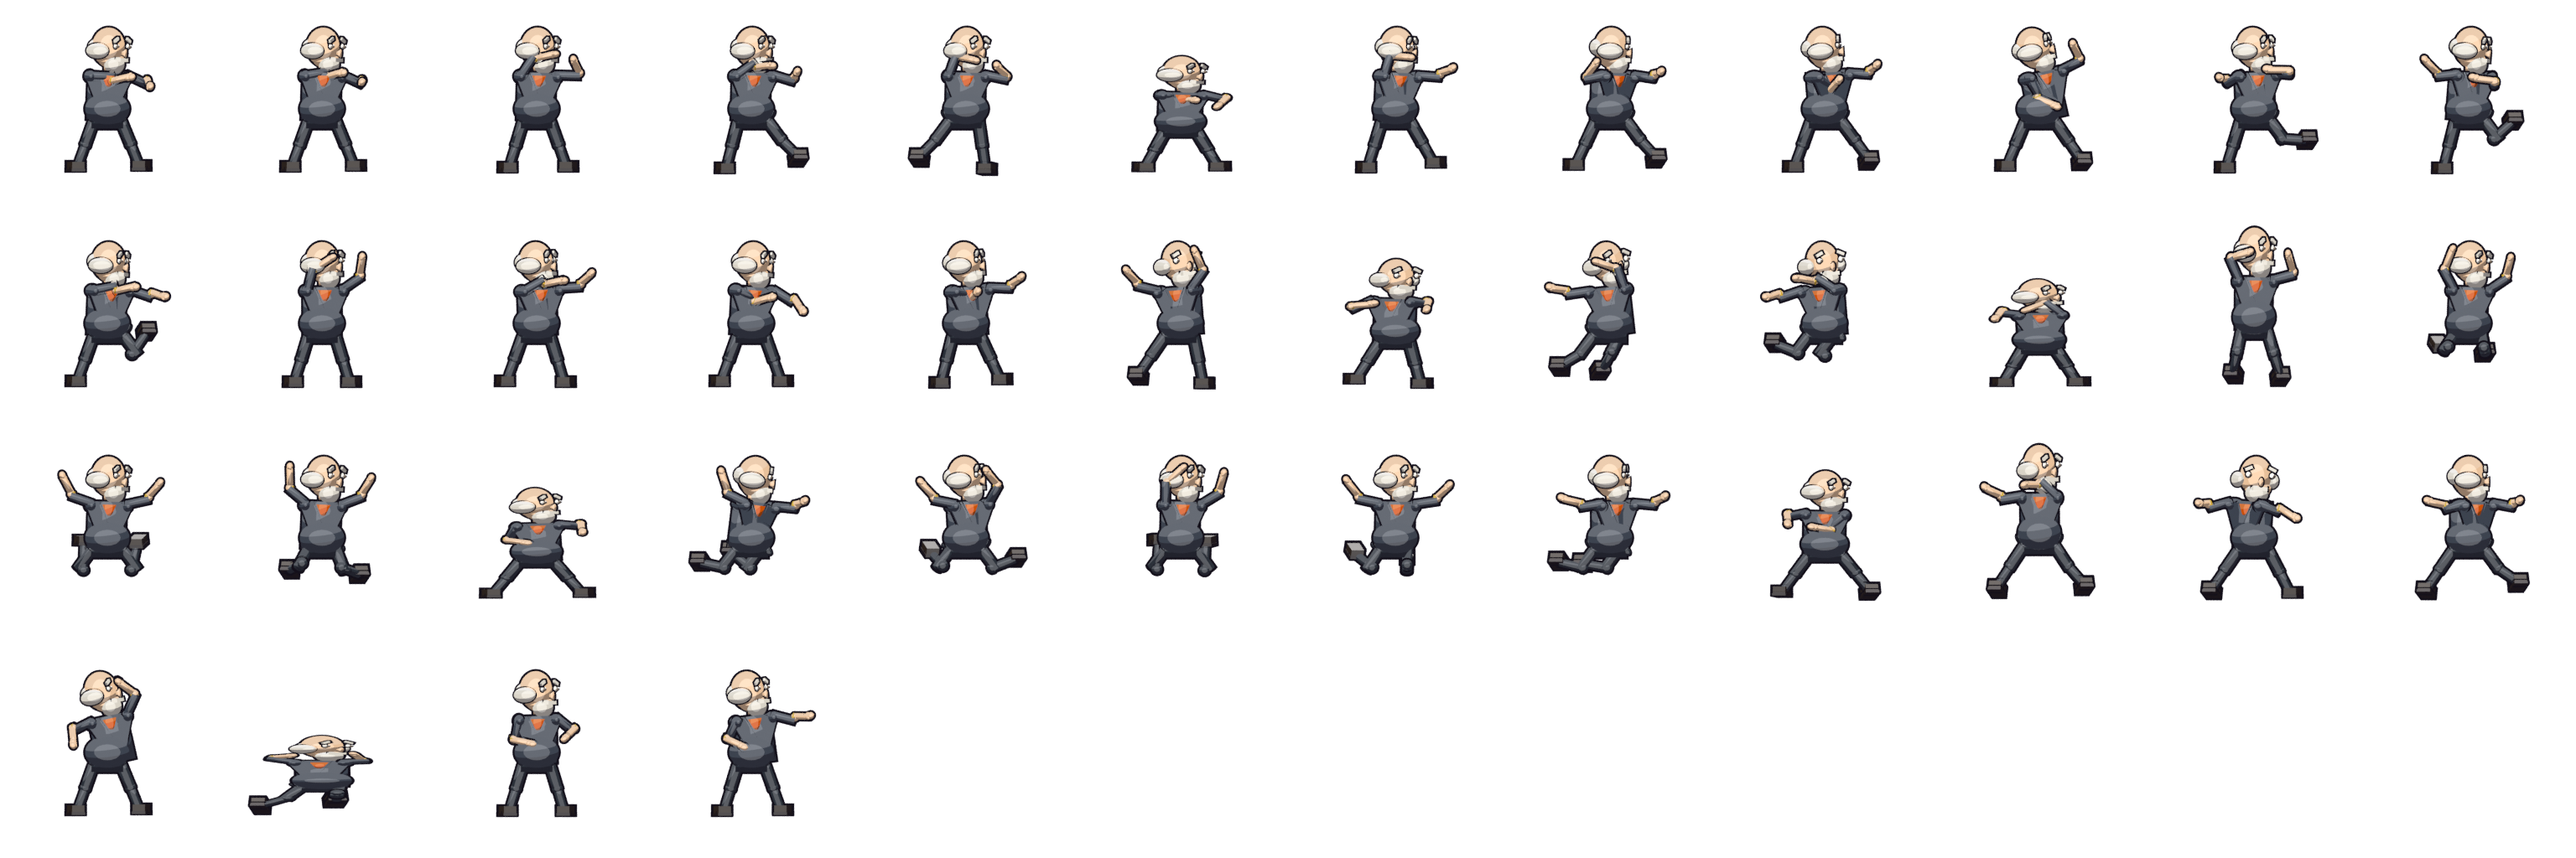
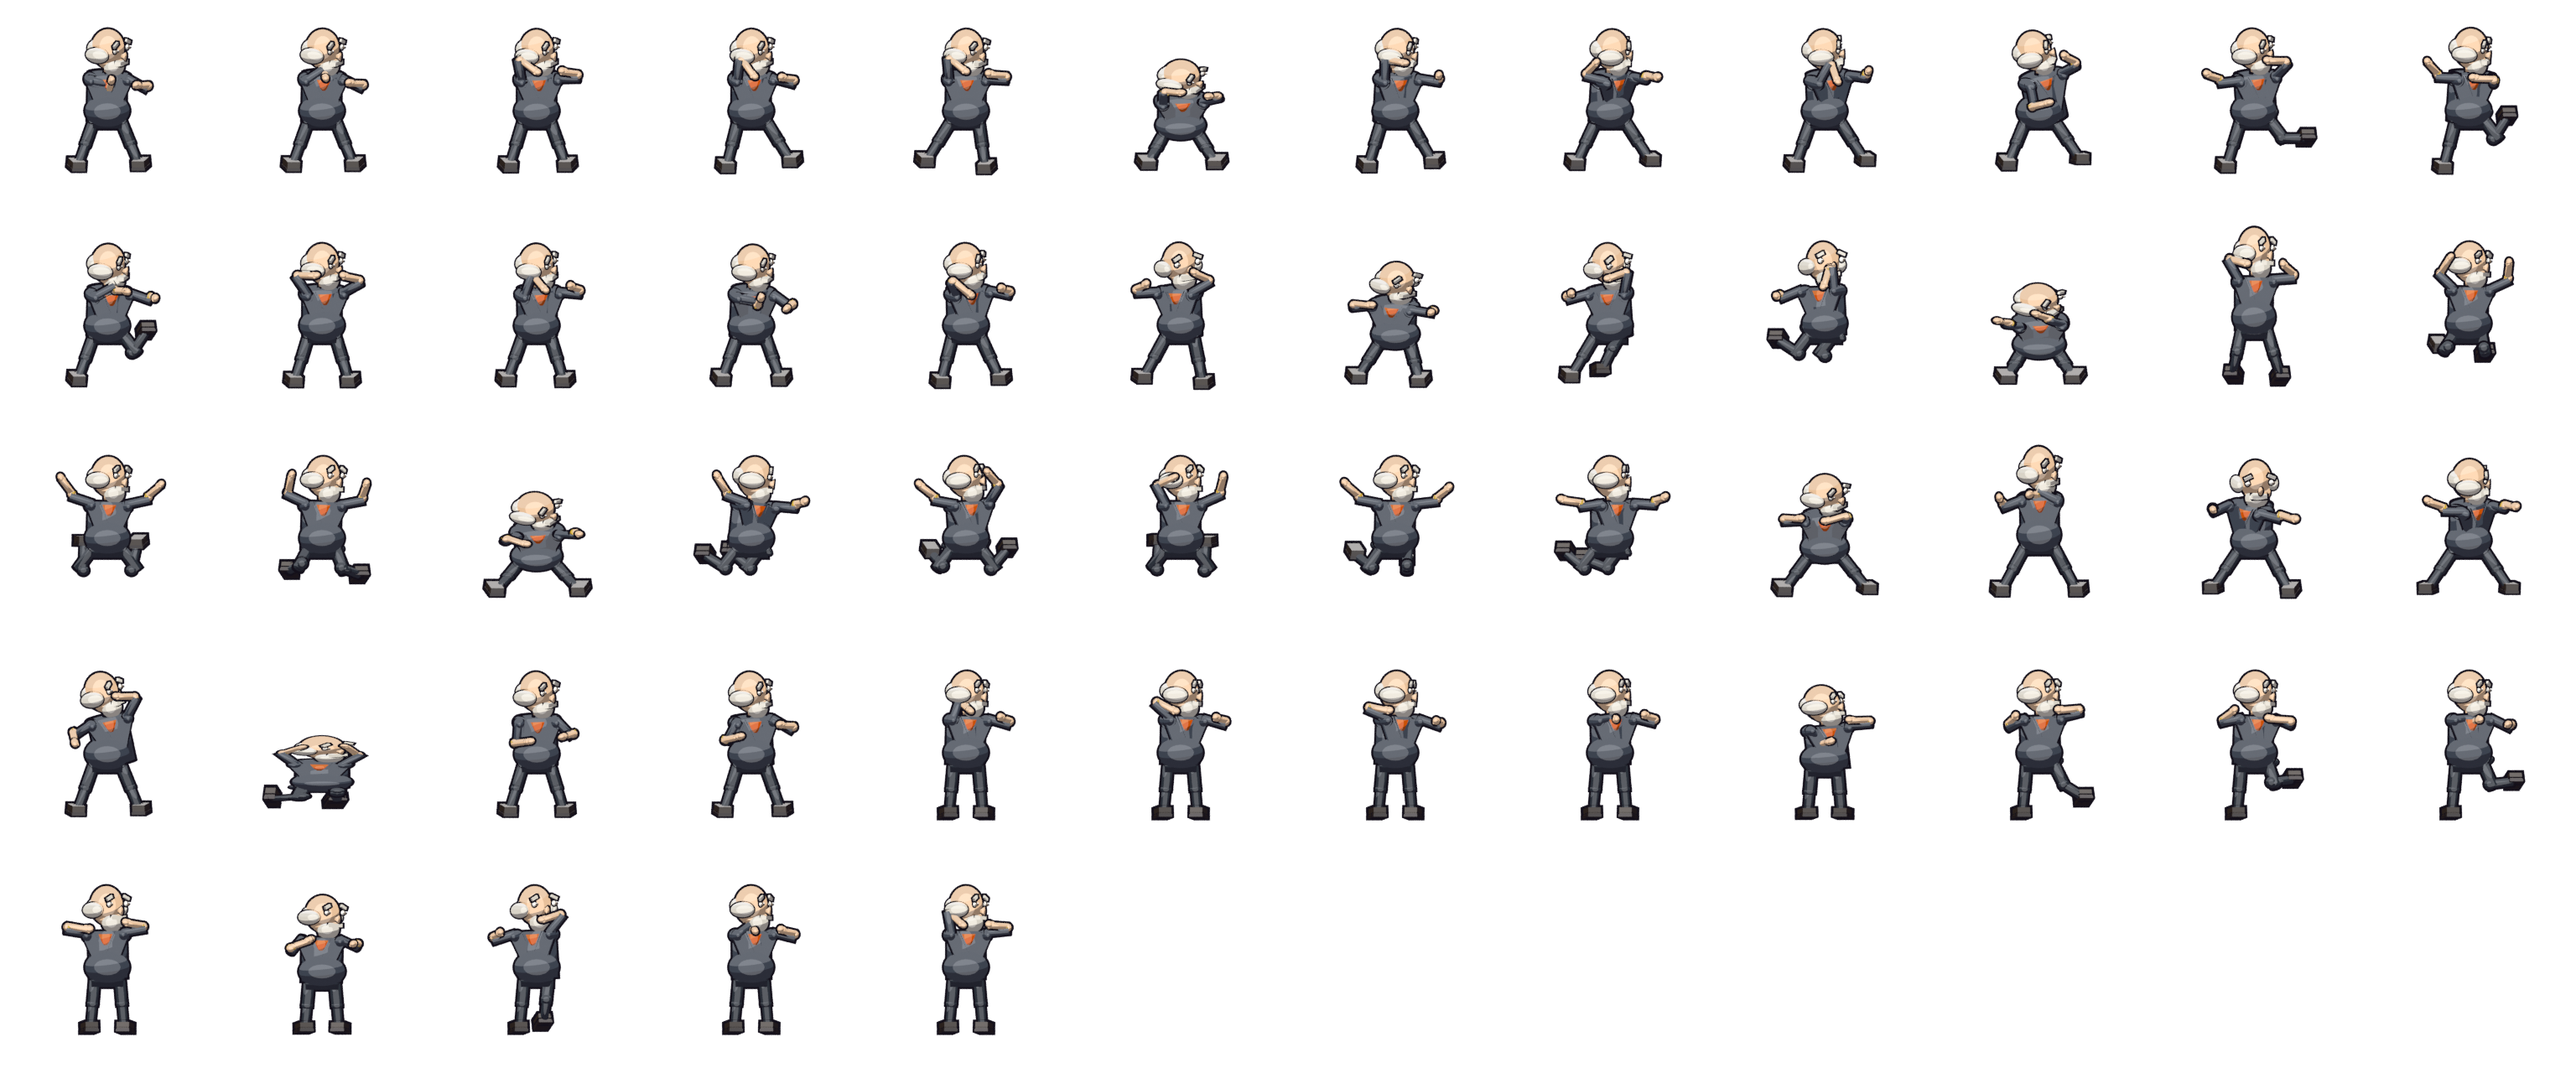
Deploy 60e8ec4-20260826T104843Z
Built by scripts/build/buildPublic.mjs. Do not edit this repo by hand.

diff --git a/play/2d-fighter-ex/src/fightScript.js b/play/2d-fighter-ex/src/fightScript.js
@@ -205,26 +205,63 @@ class Fight {
 
 
 
+
+
+
+
+
+
+
+
 const ATTACKS = {
-  jab: { frames: [['guard', 1], ['jab', 2], ['guard', 2]], hitAt: 2, reach: 46, power: 0.5 },
-  cross: { frames: [['guard', 2], ['cross', 3], ['step-in', 2]], hitAt: 3, reach: 54, power: 1 },
-  hook: { frames: [['guard', 2], ['hook', 3], ['guard', 2]], hitAt: 3, reach: 44, power: 0.9 },
-  uppercut: { frames: [['crouch', 2], ['uppercut', 3], ['guard', 2]], hitAt: 3, reach: 38, power: 1 },
-  'kick-low': { frames: [['guard', 2], ['kick-low', 3], ['guard', 2]], hitAt: 3, reach: 58, power: 0.8 },
-  'kick-high': { frames: [['guard', 2], ['kick-high', 4], ['guard', 3]], hitAt: 4, reach: 62, power: 1 },
-  knee: { frames: [['step-in', 2], ['knee', 3], ['guard', 2]], hitAt: 3, reach: 32, power: 0.9 },
+  jab: {
+    frames: [['guard', 1], ['jab-mid', 1], ['jab', 2], ['jab-mid', 1], ['guard', 1]],
+    hitAt: 2, reach: 46, power: 0.5,
+  },
+  cross: {
+    frames: [['guard', 1], ['cross-mid', 1], ['cross', 2], ['cross-out', 2],
+      ['step-in', 1], ['guard', 1]],
+    hitAt: 2, reach: 54, power: 1,
+  },
+  hook: {
+    frames: [['guard', 1], ['hook-mid', 1], ['hook', 2], ['hook-mid', 1], ['guard', 1]],
+    hitAt: 2, reach: 44, power: 0.9,
+  },
+  uppercut: {
+    frames: [['crouch', 1], ['upper-mid', 1], ['uppercut', 2], ['upper-mid', 1],
+      ['guard', 1]],
+    hitAt: 2, reach: 38, power: 1,
+  },
+  'kick-low': {
+    frames: [['guard', 1], ['klow-mid', 1], ['kick-low', 2], ['klow-mid', 1],
+      ['guard', 1]],
+    hitAt: 2, reach: 58, power: 0.8,
+  },
+  'kick-high': {
+    frames: [['guard', 1], ['khigh-mid', 1], ['kick-high', 3], ['khigh-mid', 1],
+      ['guard', 1]],
+    hitAt: 2, reach: 62, power: 1,
+  },
+  knee: {
+    frames: [['step-in', 1], ['knee-mid', 1], ['knee', 2], ['knee-mid', 1],
+      ['guard', 1]],
+    hitAt: 2, reach: 32, power: 0.9,
+  },
 };
+
+
+
 
 const DEFENCES = {
   
   
-  jab: 'parry',
-  cross: 'block-mid',
-  hook: 'block-high',
-  uppercut: 'step-back',
-  'kick-low': 'block-low',
-  'kick-high': 'block-high',
-  knee: 'block-low',
+  jab: ['guard', 'block-mid-in', 'parry', 'parry', 'block-mid-in'],
+  cross: ['guard', 'block-mid-in', 'block-mid', 'block-mid', 'block-mid-in'],
+  hook: ['guard', 'block-high-in', 'block-high', 'block-high', 'block-high-in'],
+  uppercut: ['guard', 'block-mid-in', 'step-back', 'step-back', 'guard'],
+  'kick-low': ['guard', 'block-mid-in', 'block-low', 'block-low', 'block-mid-in'],
+  'kick-high': ['guard', 'block-high-in', 'block-high', 'block-high', 'block-high-in'],
+  knee: ['guard', 'block-mid-in', 'block-low', 'block-low', 'block-mid-in'],
 };
 
 
@@ -245,29 +282,52 @@ function expand(frames) {
 function exchange({ attack, attX, defX, attFace, defFace, connects, slow = 1, react }) {
   const spec = ATTACKS[attack];
   const poses = expand(spec.frames);
-  const defPose = DEFENCES[attack];
+  const defSeq = DEFENCES[attack];
   const out = [];
   const hitTick = spec.hitAt * slow;
+
+  
+  
+  
+  const heavy = spec.power >= 0.9;
+  const reactSeq = react ? [react, react, react, react] : (heavy
+    ? ['hit-head-mid', 'hit-head', 'hit-head', 'stagger-mid', 'stagger', 'stagger']
+    : ['hit-body-mid', 'hit-body', 'hit-body', 'stagger-mid', 'stagger', 'stagger']);
 
   for (let i = 0; i < poses.length * slow; i += 1) {
     const p = poses[Math.floor(i / slow)];
     
-    const committing = i >= (spec.frames[0][1] * slow) && i < hitTick + 3 * slow;
     
     
     
-    const lean = committing ? spec.reach * 0.52 : 0;
+    
+    
+    
+    
+    
+    
+    const windEnd = spec.frames[0][1] * slow;
+    const holdEnd = hitTick + 3 * slow;
+    let ramp = 0;
+    if (i >= windEnd && i < holdEnd) {
+      ramp = Math.min(1, (i - windEnd + 1) / Math.max(1, hitTick - windEnd + 1));
+    } else if (i >= holdEnd) {
+      ramp = Math.max(0, 1 - (i - holdEnd + 1) / (3 * slow));
+    }
+    
+    
+    
+    const lean = spec.reach * 0.52 * easeOut(ramp);
     const ax = attX + attFace * lean;
 
-    let dPose = defPose;
+    let dPose = defSeq[Math.min(defSeq.length - 1, Math.floor(i / slow))];
     let dx = defX;
     if (connects && i >= hitTick) {
       
       
-      const since = i - hitTick;
-      dPose = react || (spec.power >= 0.9 ? 'hit-head' : 'hit-body');
-      if (since > 3 * slow) dPose = 'stagger';
-      dx = defX + defFace * -Math.min(spec.power * 16, since * 2.2);
+      const since = Math.floor((i - hitTick) / slow);
+      dPose = reactSeq[Math.min(reactSeq.length - 1, since)];
+      dx = defX + defFace * -Math.min(spec.power * 16, (i - hitTick) * 2.2);
     }
     out.push({
       a: st(p, ax, 0, attFace),

diff --git a/play/2d-fighter-ex/src/moveManifest.js b/play/2d-fighter-ex/src/moveManifest.js
@@ -7,7 +7,7 @@ export const FEET_ROW = 205.00;
 export const PX_PER_UNIT = 98.462;
 export const ARCHETYPES = {"light": {"name": "old", "label": "old fat man", "heightMul": 1.02}, "dark": {"name": "kid", "label": "short kid", "heightMul": 0.78}};
 
-export const MOVE_INDEX = {"idle": [0, 0], "idle-breathe": [256, 0], "guard": [512, 0], "step-in": [768, 0], "step-back": [1024, 0], "crouch": [1280, 0], "jab": [1536, 0], "cross": [1792, 0], "hook": [2048, 0], "uppercut": [2304, 0], "kick-low": [2560, 0], "kick-high": [2816, 0], "knee": [0, 256], "block-high": [256, 256], "block-mid": [512, 256], "block-low": [768, 256], "parry": [1024, 256], "hit-head": [1280, 256], "hit-body": [1536, 256], "stagger": [1792, 256], "knockdown": [2048, 256], "jump-load": [2304, 256], "jump-launch": [2560, 256], "jump-rise": [2816, 256], "jump-apex": [0, 512], "jump-fall": [256, 512], "land": [512, 512], "air-punch": [768, 512], "air-kick": [1024, 512], "air-guard": [1280, 512], "hover": [1536, 512], "fly-dash": [1792, 512], "charge": [2048, 512], "charge-max": [2304, 512], "finish-wind": [2560, 512], "finish-strike": [2816, 512], "victory": [0, 768], "defeated": [256, 768], "talk": [512, 768], "talk-point": [768, 768]};
+export const MOVE_INDEX = {"idle": [0, 0], "idle-breathe": [256, 0], "guard": [512, 0], "step-in": [768, 0], "step-back": [1024, 0], "crouch": [1280, 0], "jab": [1536, 0], "cross": [1792, 0], "hook": [2048, 0], "uppercut": [2304, 0], "kick-low": [2560, 0], "kick-high": [2816, 0], "knee": [0, 256], "block-high": [256, 256], "block-mid": [512, 256], "block-low": [768, 256], "parry": [1024, 256], "hit-head": [1280, 256], "hit-body": [1536, 256], "stagger": [1792, 256], "knockdown": [2048, 256], "jump-load": [2304, 256], "jump-launch": [2560, 256], "jump-rise": [2816, 256], "jump-apex": [0, 512], "jump-fall": [256, 512], "land": [512, 512], "air-punch": [768, 512], "air-kick": [1024, 512], "air-guard": [1280, 512], "hover": [1536, 512], "fly-dash": [1792, 512], "charge": [2048, 512], "charge-max": [2304, 512], "finish-wind": [2560, 512], "finish-strike": [2816, 512], "victory": [0, 768], "defeated": [256, 768], "talk": [512, 768], "talk-point": [768, 768], "jab-mid": [1024, 768], "cross-mid": [1280, 768], "cross-out": [1536, 768], "hook-mid": [1792, 768], "upper-mid": [2048, 768], "klow-mid": [2304, 768], "khigh-mid": [2560, 768], "knee-mid": [2816, 768], "hit-head-mid": [0, 1024], "hit-body-mid": [256, 1024], "stagger-mid": [512, 1024], "block-mid-in": [768, 1024], "block-high-in": [1024, 1024]};
 
 
 export const MOVE_ROT = {"fly-dash": -34};

diff --git a/play/2d-fighter-ex/src/render.js b/play/2d-fighter-ex/src/render.js
@@ -245,20 +245,34 @@ export function renderFrame(ctx, stage, pose, mood = 'none', { onLayer, season =
   
   layer('fx');
   if (pose.hit && on('impact')) {
+    ctx.save();
+    ctx.globalAlpha = (1 - pose.hit.age) ** 1.6;
     drawEffect(ctx, pose);
+    ctx.restore();
+    
+    
+    
+    
+    
+    
     
     
     
     
     const mid = [pose.hit.x, (pose.a ? pose.a.top : height / 2) + 34];
-    drawClashExtras(ctx, mid[0], mid[1], Math.min(1.6, pose.hit.power || 1), timeMs / 400);
+    const decay = (1 - pose.hit.age) ** 1.6;
+    ctx.save();
+    ctx.globalAlpha = decay;
+    drawClashExtras(ctx, mid[0], mid[1],
+      Math.min(1.6, (pose.hit.power || 1) * (0.5 + 0.5 * decay)), timeMs / 400);
+    ctx.restore();
   }
 
   
   
   
   layer('word');
-  if (on('words') && (pose.hit || (charge && charge.t > 0.25))) {
+  if (on('words') && (pose.word || (charge && charge.t > 0.25))) {
     
     
     
@@ -267,9 +281,24 @@ export function renderFrame(ctx, stage, pose, mood = 'none', { onLayer, season =
     if (pair.length) {
       const mx = pair.reduce((t, p) => t + p.cx, 0) / pair.length;
       const top = Math.min(...pair.map((p) => p.top));
-      if (pose.hit) {
-        drawWord(ctx, WORDS.impact, mx + 26, top - 14, 24,
+      if (pose.word) {
+        
+        
+        
+        
+        
+        
+        
+        
+        const a = pose.word.age;
+        const pop = a < 0.2 ? 0.6 + 0.4 * (a / 0.2) : 1;
+        const fade = a > 0.8 ? (1 - a) / 0.2 : 1;
+        ctx.save();
+        ctx.globalAlpha = fade;
+        drawWord(ctx, WORDS.impact, pose.word.x + 20, top - 12,
+          24 * pop * (pose.word.big ? 1.5 : 1),
           { fill: FX.wordFill, line: FX.wordInk, tilt: -0.16 });
+        ctx.restore();
       } else {
         drawWord(ctx, WORDS.charge, mx - 46, top - 20, 17,
           { fill: FX.wordFill, line: FX.wordInk, tilt: -0.08 });

diff --git a/play/2d-fighter-ex/src/fightPlayback.js b/play/2d-fighter-ex/src/fightPlayback.js
@@ -114,6 +114,79 @@ export function trailAt(ticks, index, side, rate) {
 
 
 
+
+
+
+
+
+
+
+
+const HIT_HOLD = 10;        
+const WORD_HOLD = 16;       
+const WORD_GAP = 45;        
+const WORD_POWER = 0.9;     
+
+let wordTrack = null;
+function words() {
+  if (wordTrack) return wordTrack;
+  const { ticks } = fight();
+  const out = [];
+  let last = -WORD_GAP;
+  for (let i = 0; i < ticks.length; i += 1) {
+    const h = ticks[i].hit;
+    if (!h) continue;
+    if ((h.power || 0) < WORD_POWER && !h.big) continue;
+    
+    
+    
+    if (i - last < (h.big ? WORD_HOLD : WORD_GAP)) continue;
+    last = i;
+    out.push({ at: i, x: h.x, power: h.power || 1, big: !!h.big });
+  }
+  wordTrack = out;
+  return out;
+}
+
+
+function impactAt(index) {
+  const { ticks } = fight();
+  for (let k = 0; k < HIT_HOLD; k += 1) {
+    const at = index - k;
+    if (at < 0) break;
+    const h = ticks[at].hit;
+    if (h) return { ...h, age: k / HIT_HOLD, fresh: k === 0 };
+  }
+  return null;
+}
+
+
+function wordAt(index) {
+  for (const w of words()) {
+    if (index >= w.at && index - w.at < WORD_HOLD) {
+      return { ...w, age: (index - w.at) / WORD_HOLD };
+    }
+  }
+  return null;
+}
+
+
+export function wordTimes() {
+  return words().map((w) => w.at);
+}
+
+
+
+
+
+
+
+
+
+
+
+
+
 const SCENE_ZOOM = {
   approach: 0.96,
   'feel-out': 1.0,
@@ -210,7 +283,9 @@ export function stateAt(ms) {
     a: drawableOf(cur.a, next && next.a, into, 'a', ticks, index, rate),
     b: drawableOf(cur.b, next && next.b, into, 'b', ticks, index, rate),
     
-    hit: cur.hit || null,
+    
+    hit: impactAt(index),
+    word: wordAt(index),
     land: cur.land || null,
     charge: cur.charge || null,
     say: cur.say || null,

diff --git a/README.md b/README.md
@@ -2,4 +2,4 @@
 
 Built output for <https://magesticanstudios.com>. Generated - do not edit.
 
-Build `b9626a9-20260826T100358Z`.
+Build `60e8ec4-20260826T104843Z`.
